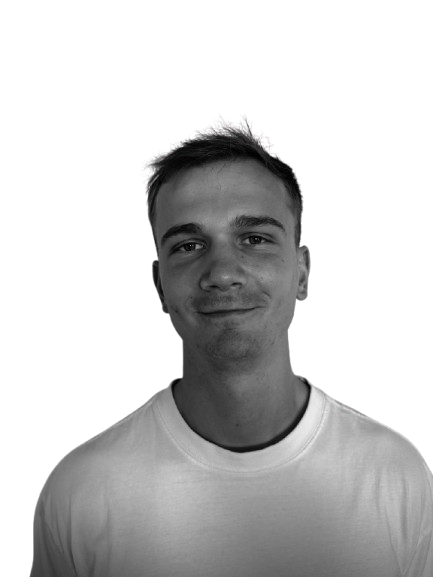
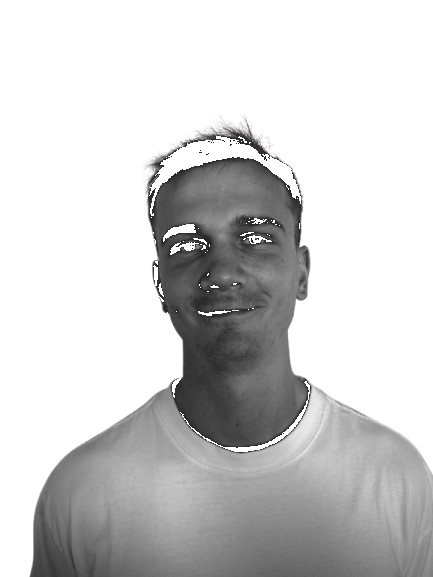
Polish contact photos, login hero and homepage image framing.

diff --git a/src/components/contact-content.tsx b/src/components/contact-content.tsx
@@ -101,7 +101,7 @@ export function ContactContent() {
                 key={p.email}
                 className="overflow-hidden border border-[var(--color-sand-mid)] bg-white"
               >
-                <div className="relative aspect-[4/5] bg-[var(--color-accent)]">
+                <div className="relative aspect-[4/5] bg-white">
                   <Image
                     src={p.photo}
                     alt={p.name}
@@ -188,28 +188,6 @@ export function ContactContent() {
               </article>
             ))}
           </div>
-        </div>
-
-        <div className="mt-14 grid grid-cols-2 gap-3 sm:grid-cols-4 sm:gap-4">
-          {[
-            "/brand/transport-road.png",
-            "/brand/transport-sea.webp",
-            "/brand/transport-air.webp",
-            "/brand/transport-rail.webp",
-          ].map((src) => (
-            <div
-              key={src}
-              className="relative aspect-[4/3] overflow-hidden border border-[var(--color-sand-mid)]"
-            >
-              <Image
-                src={src}
-                alt=""
-                fill
-                className="object-cover"
-                sizes="(max-width: 640px) 50vw, 25vw"
-              />
-            </div>
-          ))}
         </div>
       </section>
     </div>

diff --git a/src/app/login/page.tsx b/src/app/login/page.tsx
@@ -1,14 +1,27 @@
 import { Suspense } from "react";
+import Image from "next/image";
 import { AuthPanel } from "@/components/auth-panel";
 import { PublicShell } from "@/components/public-shell";
 
 export default function CustomerLoginPage() {
   return (
     <PublicShell>
-      <div className="flex justify-center bg-[var(--color-soft)] px-4 py-12 sm:py-16">
-        <Suspense fallback={<div className="h-80 w-full max-w-md bg-white" />}>
-          <AuthPanel redirectTo="/app" />
-        </Suspense>
+      <div className="relative flex min-h-[calc(100vh-8rem)] justify-center overflow-hidden px-4 py-12 sm:py-16">
+        <div className="absolute inset-0">
+          <Image
+            src="/brand/hero-hirtshals.webp"
+            alt=""
+            fill
+            priority
+            className="object-cover object-[58%_55%]"
+          />
+          <div className="absolute inset-0 bg-gradient-to-b from-[rgba(11,42,74,0.55)] via-[rgba(243,238,230,0.72)] to-[var(--color-sand-soft)]" />
+        </div>
+        <div className="relative z-10 w-full max-w-md">
+          <Suspense fallback={<div className="h-80 w-full bg-white" />}>
+            <AuthPanel redirectTo="/app" />
+          </Suspense>
+        </div>
       </div>
     </PublicShell>
   );

diff --git a/src/components/home-content.tsx b/src/components/home-content.tsx
@@ -23,7 +23,7 @@ export function HomeContent() {
             alt=""
             fill
             priority
-            className="object-cover object-[50%_38%]"
+            className="object-cover object-[58%_62%]"
           />
           <div className="absolute inset-0 bg-gradient-to-b from-[rgba(6,26,48,0.18)] via-[rgba(6,26,48,0.28)] to-[rgba(6,26,48,0.55)]" />
         </div>
